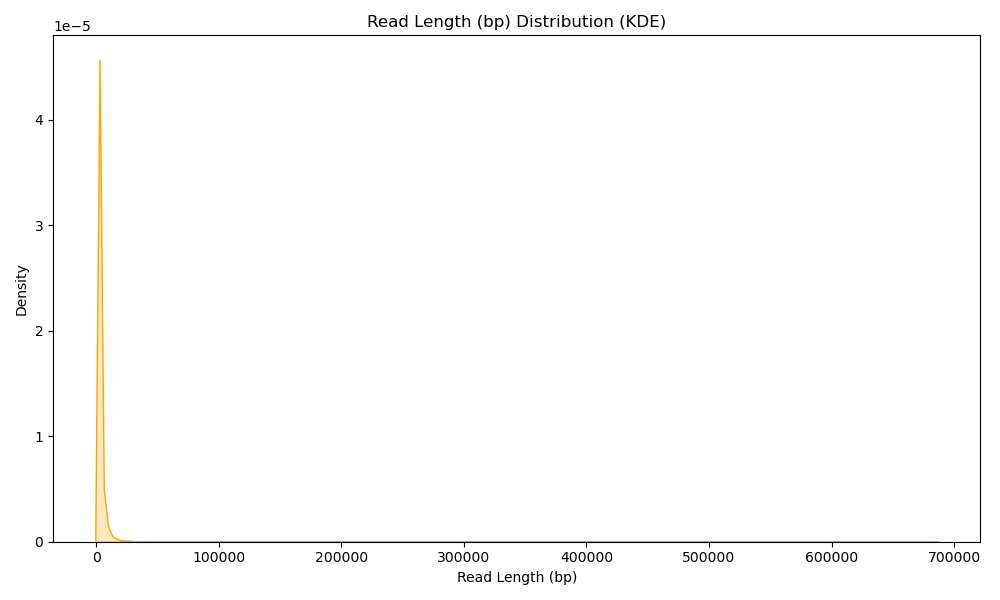
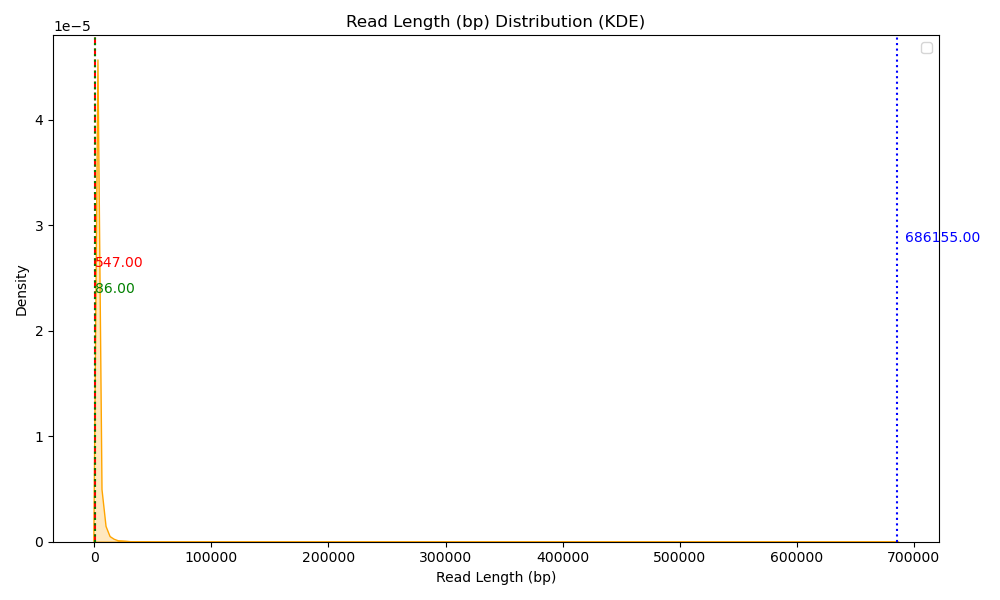
Update visualize_reads.py: add line-side values with varied Y positions for histogram/KDE/log histograms

diff --git a/visualize_reads.py b/visualize_reads.py
@@ -3,6 +3,7 @@ import matplotlib.pyplot as plt
 import seaborn as sns
 import os
 import sys
+import numpy as np
 
 stats_file = sys.argv[1] if len(sys.argv) > 1 else "results/Metrics/read_metrics.csv"
 out_dir = "results/Visualization"
@@ -34,31 +35,74 @@ for metric, label in metrics.items():
     if metric not in df.columns:
         continue
 
-
     filename_safe = metric.replace("%", "p")
+    data = df[metric]
 
     plt.figure(figsize=(10,6))
     plt.hist(df[metric], bins=50, color="skyblue", edgecolor="black")
+
+    median_val = data.median()
+    min_val = data.min()
+    max_val = data.max()
+
+    plt.axvline(median_val, color='red', linestyle='--')
+    plt.axvline(min_val, color='green', linestyle=':')
+    plt.axvline(max_val, color='blue', linestyle=':')
+
+
+    plt.text(median_val*1.01, plt.ylim()[1]*0.55, f'{median_val:.2f}', color='red', ha='left', va='center')
+    plt.text(min_val*1.01, plt.ylim()[1]*0.50, f'{min_val:.2f}', color='green', ha='left', va='center')
+    plt.text(max_val*1.01, plt.ylim()[1]*0.60, f'{max_val:.2f}', color='blue', ha='left', va='center')
+
+
     plt.title(f"{label} Distribution (Histogram)")
     plt.xlabel(label)
     plt.ylabel("Count")
+    plt.legend()
     plt.tight_layout()
     plt.savefig(os.path.join(out_dir, f"{filename_safe}_Histogram.png"))
     plt.close()
 
     plt.figure(figsize=(10,6))
     sns.kdeplot(df[metric], fill=True, color="orange")
+
+    plt.axvline(median_val, color='red', linestyle='--')
+    plt.axvline(min_val, color='green', linestyle=':')
+    plt.axvline(max_val, color='blue', linestyle=':')
+
+    plt.text(median_val*1.01, plt.ylim()[1]*0.55, f'{median_val:.2f}', color='red', ha='left', va='center')
+    plt.text(min_val*1.01, plt.ylim()[1]*0.50, f'{min_val:.2f}', color='green', ha='left', va='center')
+    plt.text(max_val*1.01, plt.ylim()[1]*0.60, f'{max_val:.2f}', color='blue', ha='left', va='center')
+
+
     plt.title(f"{label} Distribution (KDE)")
     plt.xlabel(label)
     plt.ylabel("Density")
+    plt.legend()
     plt.tight_layout()
     plt.savefig(os.path.join(out_dir, f"{filename_safe}_KDE.png"))
     plt.close()
 
 if "Length" in df.columns:
-    import numpy as np
+    log_length = np.log10(df["Length"] + 1)
     plt.figure(figsize=(10,6))
+
     plt.hist(np.log10(df["Length"] + 1), bins=50, color="purple", edgecolor="black")
+
+    median_val = np.median(log_length)
+    min_val = np.min(log_length)
+    max_val = np.max(log_length)
+
+    plt.axvline(median_val, color='red', linestyle='--')
+    plt.axvline(min_val, color='green', linestyle=':')
+    plt.axvline(max_val, color='blue', linestyle=':')
+
+
+    plt.text(median_val*1.01, plt.ylim()[1]*0.55, f'{median_val:.2f}', color='red', ha='left', va='center')
+    plt.text(min_val*1.01, plt.ylim()[1]*0.50, f'{min_val:.2f}', color='green', ha='left', va='center')
+    plt.text(max_val*1.01, plt.ylim()[1]*0.60, f'{max_val:.2f}', color='blue', ha='left', va='center')
+
+
     plt.title("Log Read Length Distribution")
     plt.xlabel("log10(Read Length)")
     plt.ylabel("Count")
